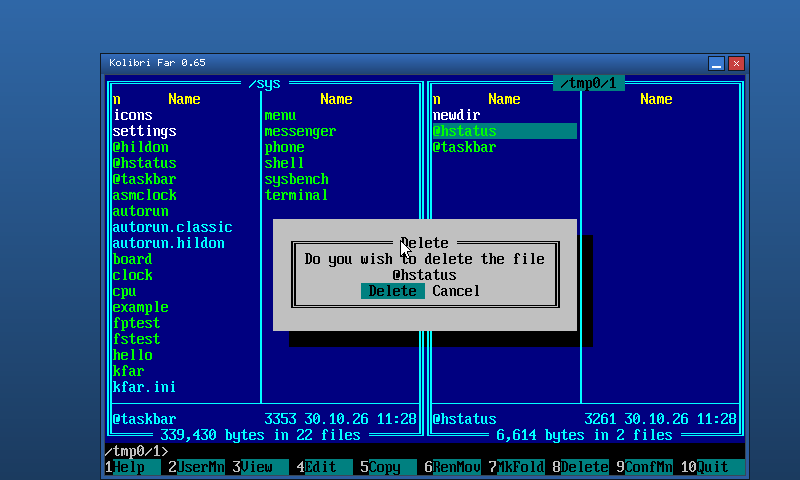
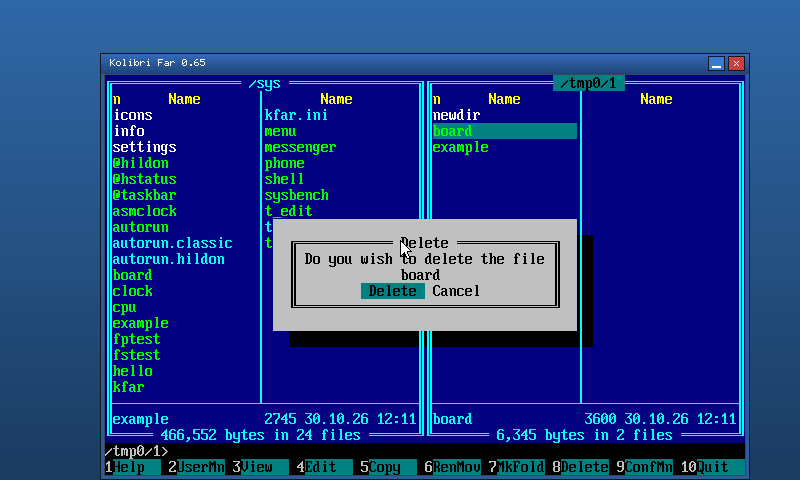
tests/apps: kfar finds its files by quick search, not by position; the screenshots renewed
The ramdisk's /sys got folders (info/ for t_edit's syntax files) and the
test's three lines down met a folder; Alt+letter finds board and example
whatever comes before them.

diff --git a/tests/apps/run.py b/tests/apps/run.py
@@ -135,13 +135,14 @@ def test_terminal(img):
 
 
 def test_kfar(img):
-    # the left panel /sys (icons/, settings/, @hildon, @hstatus, @taskbar,
-    # ...), the right one /tmp0/1: two copies (F5), a folder (F7), a
-    # delete (F8); fstest (autorun.kfar) looks at /tmp0/1 at 45 s
+    # the left panel /sys, the right one /tmp0/1: two copies (F5) of files
+    # found by kfar's quick search (Alt+letter: board, example), a folder
+    # (F7), a delete (F8 on board); fstest (autorun.kfar) looks at /tmp0/1
+    # at 45 s
     make('realview', 'autorun.kfar')
-    steps = keys('wait:3', 'down', 'down', 'down', 'f5', 'wait:1', 'ret', 'wait:2', 'down', 'f5', 'wait:1', 'ret',
-                 'wait:2', 'shot:kfar-copied', 'tab', 'f7', 'wait:1', 'newdir', 'ret', 'wait:2', 'home', 'down', 'f8',
-                 'wait:1', 'shot:kfar-delete', 'ret', 'wait:2', 'shot:kfar-done', 'f3', 'wait:2', 'shot:kfar-view',
+    steps = keys('wait:3', 'alt-b', 'f5', 'wait:1', 'ret', 'wait:2', 'alt-e', 'f5', 'wait:1', 'ret', 'wait:2',
+                 'shot:kfar-copied', 'tab', 'f7', 'wait:1', 'newdir', 'ret', 'wait:2', 'alt-b', 'f8', 'wait:1',
+                 'shot:kfar-delete', 'ret', 'wait:2', 'shot:kfar-done', 'f3', 'wait:2', 'shot:kfar-view',
                  'esc', 'wait:25')
     log = qemu('realview', f'{OUT}/kfar', steps)
     n_ok = log.count('fstest: expect ok')
